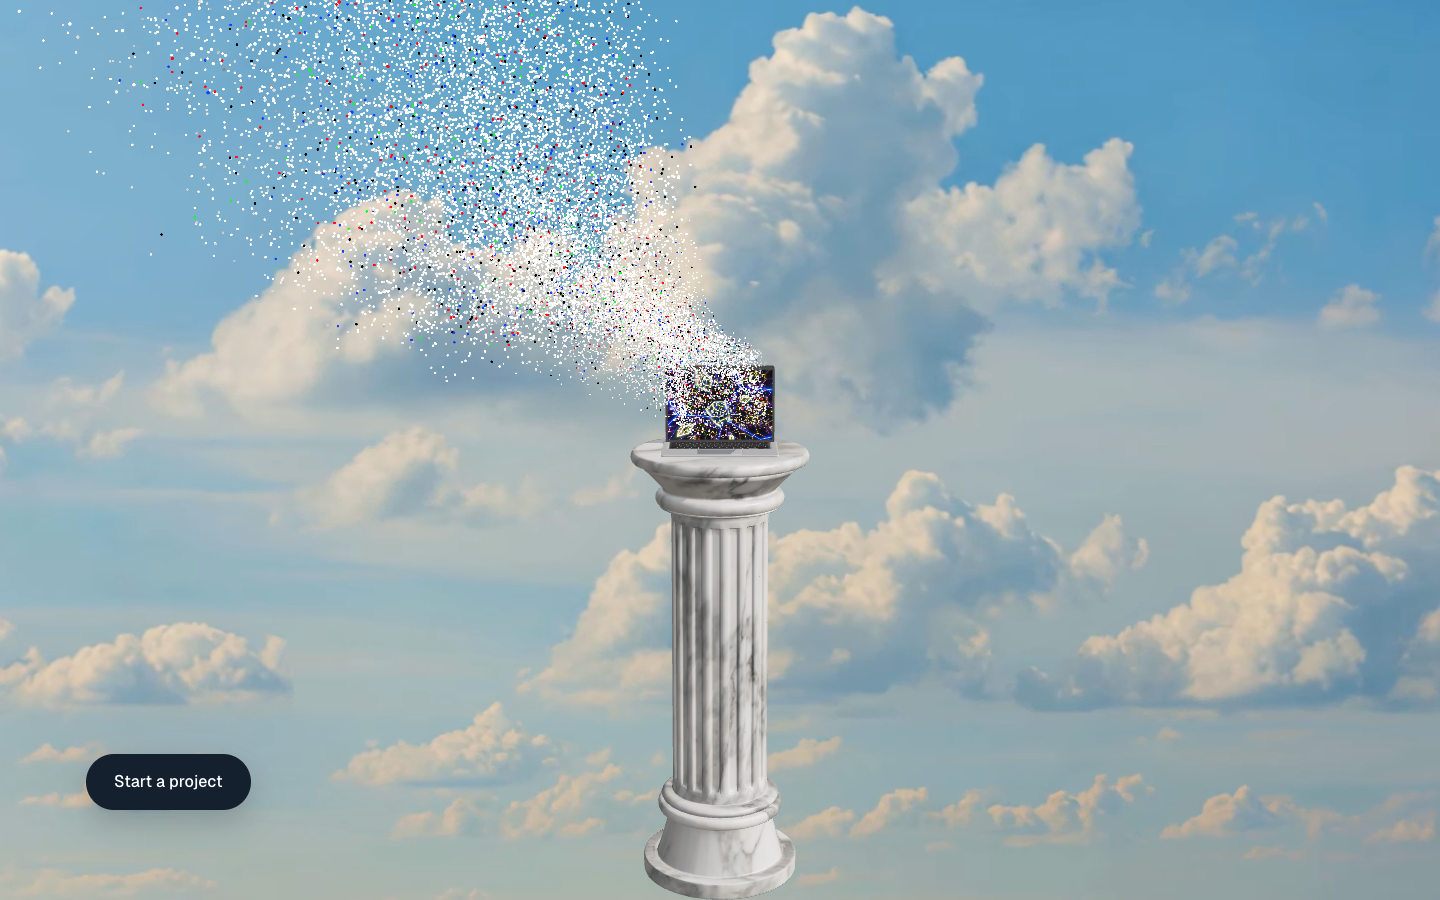
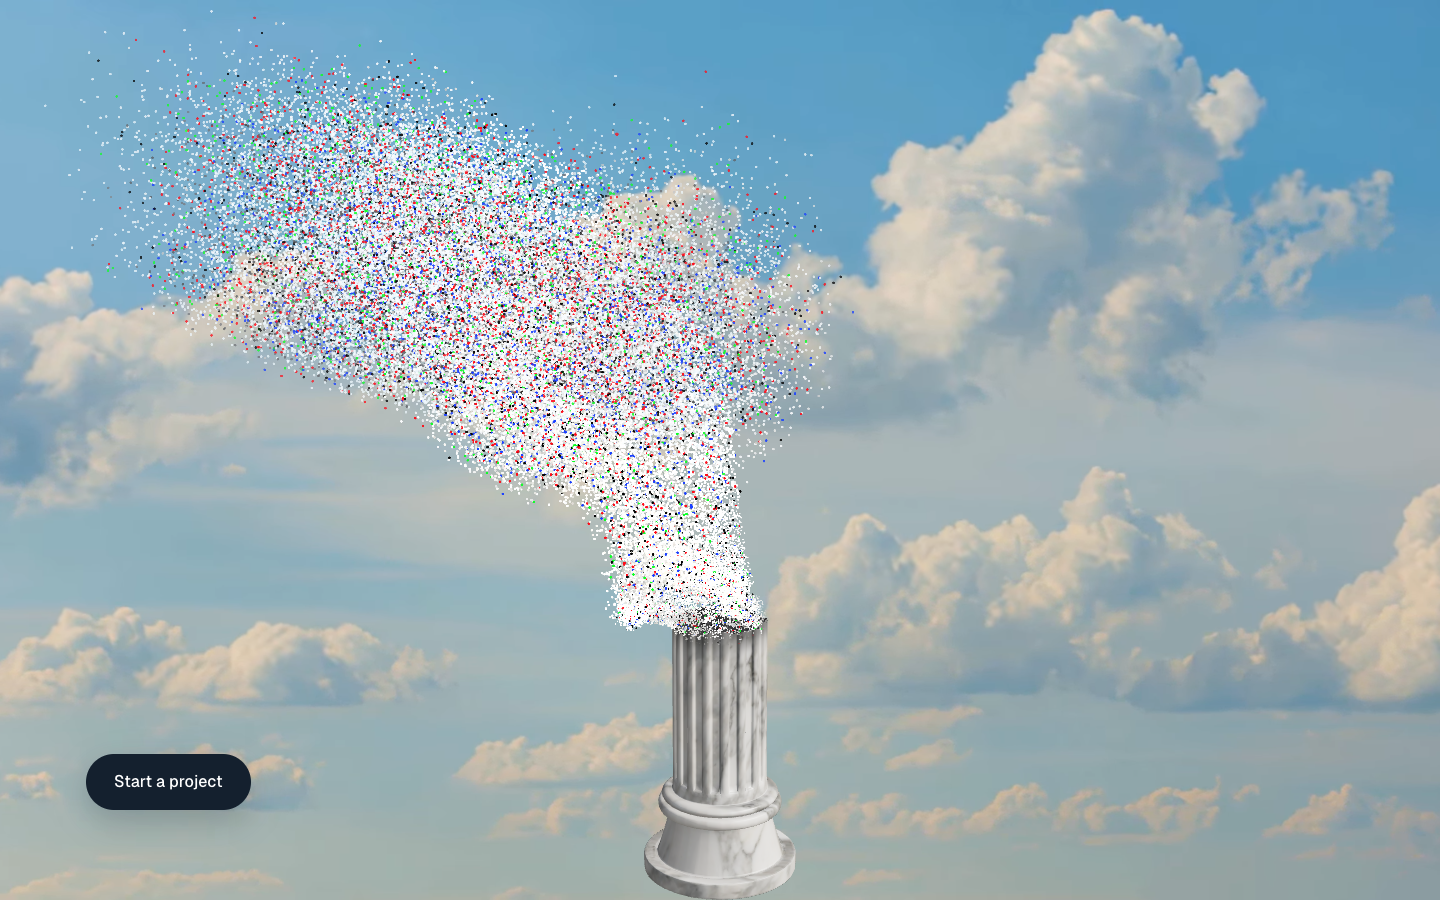
Dissolve grain in world units per object: fine on the pillar rig so the laptop is cut only where its dust leaves
Claude-Session: https://claude.ai/code/session_01NAdPXLUXCGhh82qBsMYyAh

diff --git a/src/hero/dissolve.ts b/src/hero/dissolve.ts
@@ -4,10 +4,11 @@ import * as THREE from "three";
  * A height cut on a MeshStandardMaterial with a grainy edge. Forward: surface above the cut survives (the
  * statue crumbling from the feet). Inverted: surface below the cut survives (the pillar surfacing from the ground).
  */
-export type Dissolve = { uCut: { value: number }; uInvert: { value: number }; uEdge: { value: number }; uHeight: { value: number } };
+export type Dissolve = { uCut: { value: number }; uInvert: { value: number }; uEdge: { value: number }; uHeight: { value: number }; uGrain: { value: number } };
 
-export function makeDissolve(height: number, invert = false): Dissolve {
-  return { uCut: { value: invert ? -1 : -1 }, uInvert: { value: invert ? 1 : 0 }, uEdge: { value: 0.06 }, uHeight: { value: height } };
+/** grain is the ragged edge's amplitude in world units: large for the statue, small for the pillar and laptop */
+export function makeDissolve(height: number, invert = false, grain = 0.4): Dissolve {
+  return { uCut: { value: -1 }, uInvert: { value: invert ? 1 : 0 }, uEdge: { value: 0.06 }, uHeight: { value: height }, uGrain: { value: grain } };
 }
 
 const PARS = /* glsl */ `
@@ -15,6 +16,7 @@ const PARS = /* glsl */ `
   uniform float uInvert;
   uniform float uEdge;
   uniform float uHeight;
+  uniform float uGrain;
   varying vec3 vWorldPos;
   float dHash(vec3 p) { return fract(sin(dot(p, vec3(127.1, 311.7, 74.7))) * 43758.5453123); }
   float dNoise(vec3 p) {
@@ -37,7 +39,7 @@ export function applyDissolve(mat: THREE.MeshStandardMaterial, d: Dissolve, key:
         `#include <dithering_fragment>
         float h = vWorldPos.y / uHeight;
         float grain = dNoise(vWorldPos * 28.0) * 0.6 + dNoise(vWorldPos * 6.0) * 0.4;
-        float edge = h + (grain - 0.5) * 0.22;
+        float edge = h + (grain - 0.5) * (uGrain / uHeight);
         float d = uInvert > 0.5 ? (uCut - edge) : (edge - uCut);
         if (d < 0.0) discard;
         float rim = 1.0 - smoothstep(0.0, uEdge, d);

diff --git a/src/hero/Rebuild.tsx b/src/hero/Rebuild.tsx
@@ -22,7 +22,7 @@ export const screenState = { centre: new THREE.Vector3(), normal: new THREE.Vect
 /** Where the camera looks during the turn and the screen beat; the camera rig writes this each frame. */
 export const stageTarget = { look: new THREE.Vector3(0, 0.66, 0), camPos: new THREE.Vector3(0, 0.95, 3.5), fov: 34 };
 
-const rebuildDissolve = makeDissolve(COLUMN_TOP + 0.3, true);
+const rebuildDissolve = makeDissolve(COLUMN_TOP + 0.3, true, 0.06);
 
 /** Column and laptop surface beneath the settling dust, then turn, open and light up. */
 export function Rebuild({ video, screenTexture }: { video: HTMLVideoElement | null; screenTexture?: THREE.Texture | null }) {

diff --git a/src/hero/Statue.tsx b/src/hero/Statue.tsx
@@ -24,7 +24,7 @@ export const STATUE = {
 
 const DRACO = "/draco/";
 
-export const statueDissolve = makeDissolve(1.8, false);
+export const statueDissolve = makeDissolve(1.8, false, 0.4);
 
 function prepare(scene: THREE.Group) {
   scene.traverse((o) => {
